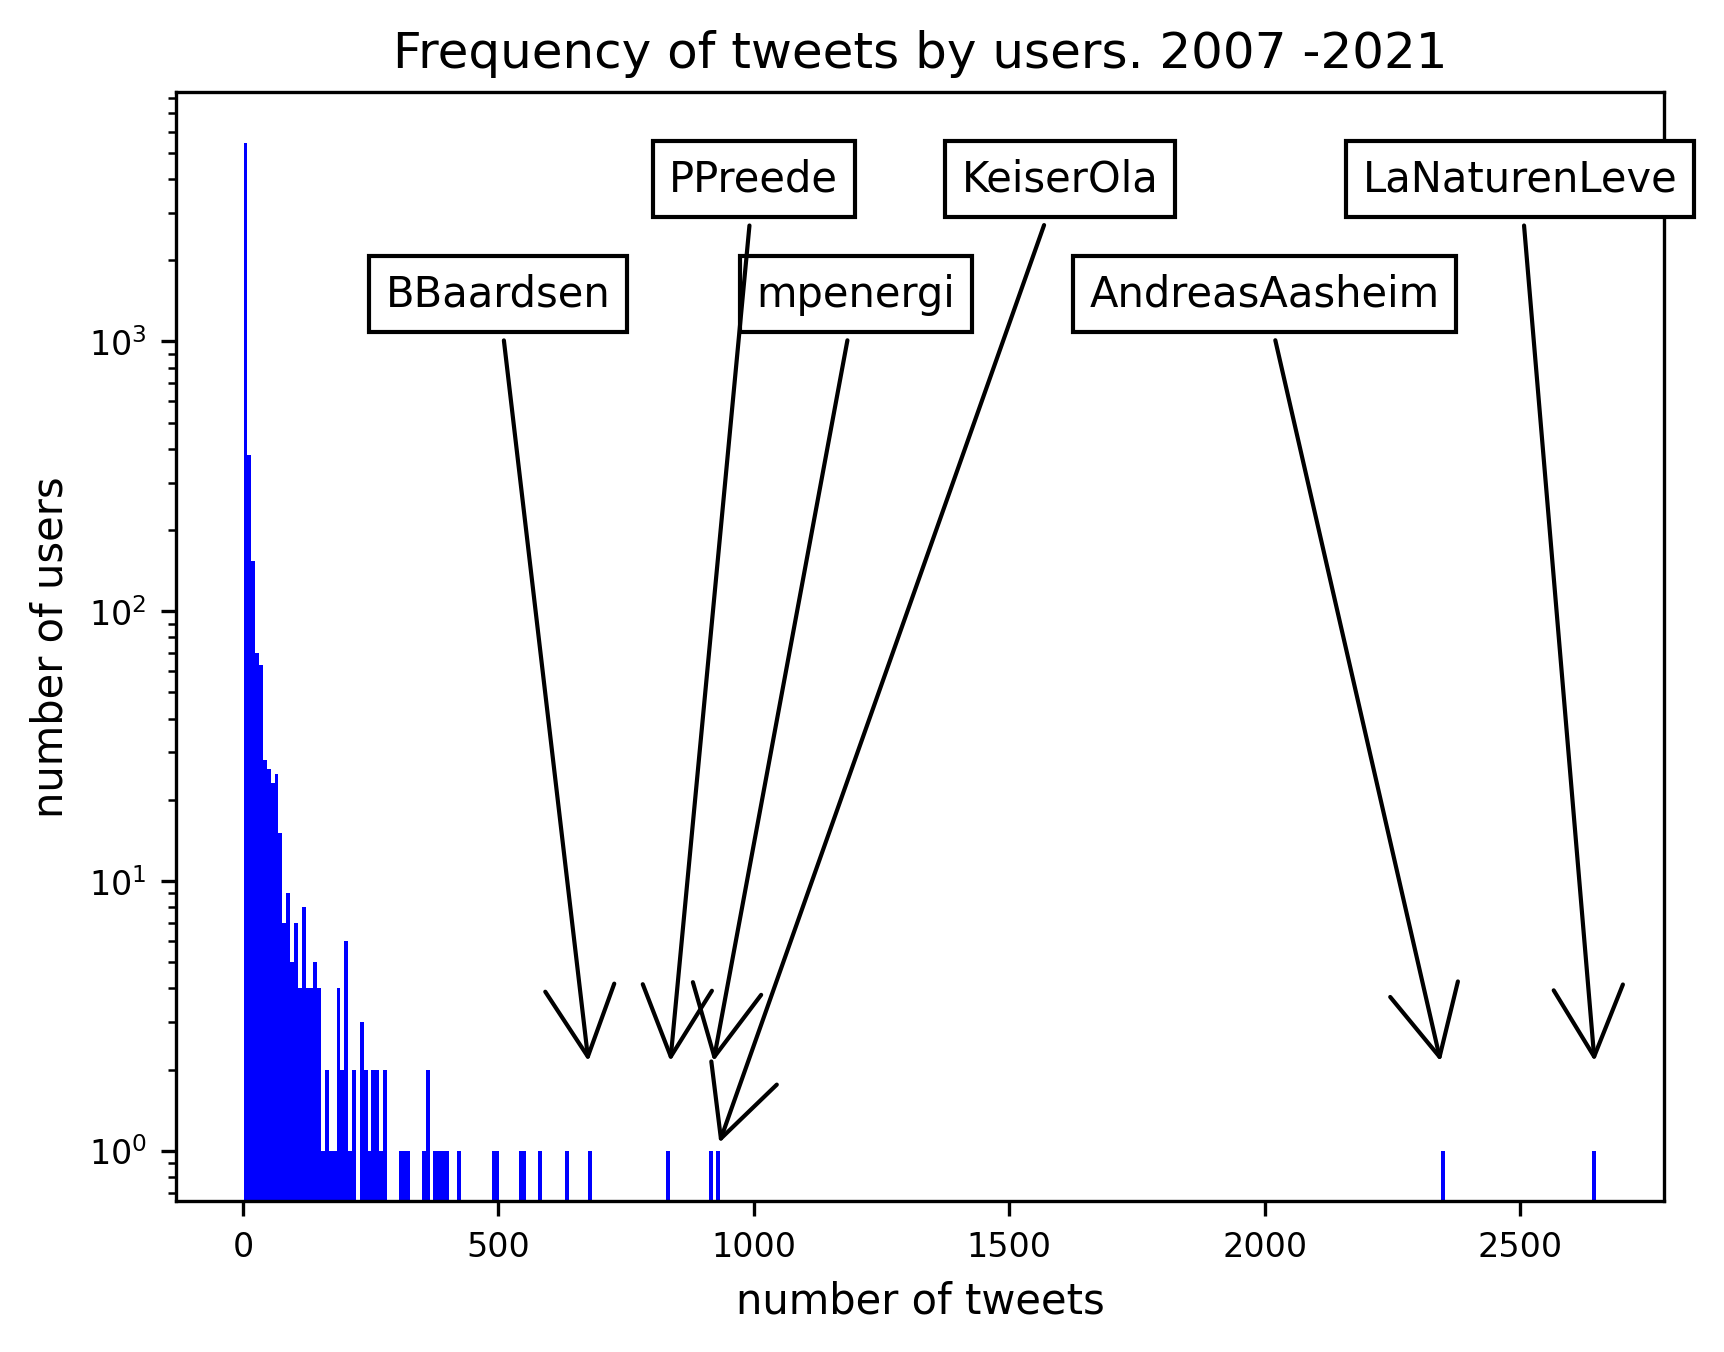
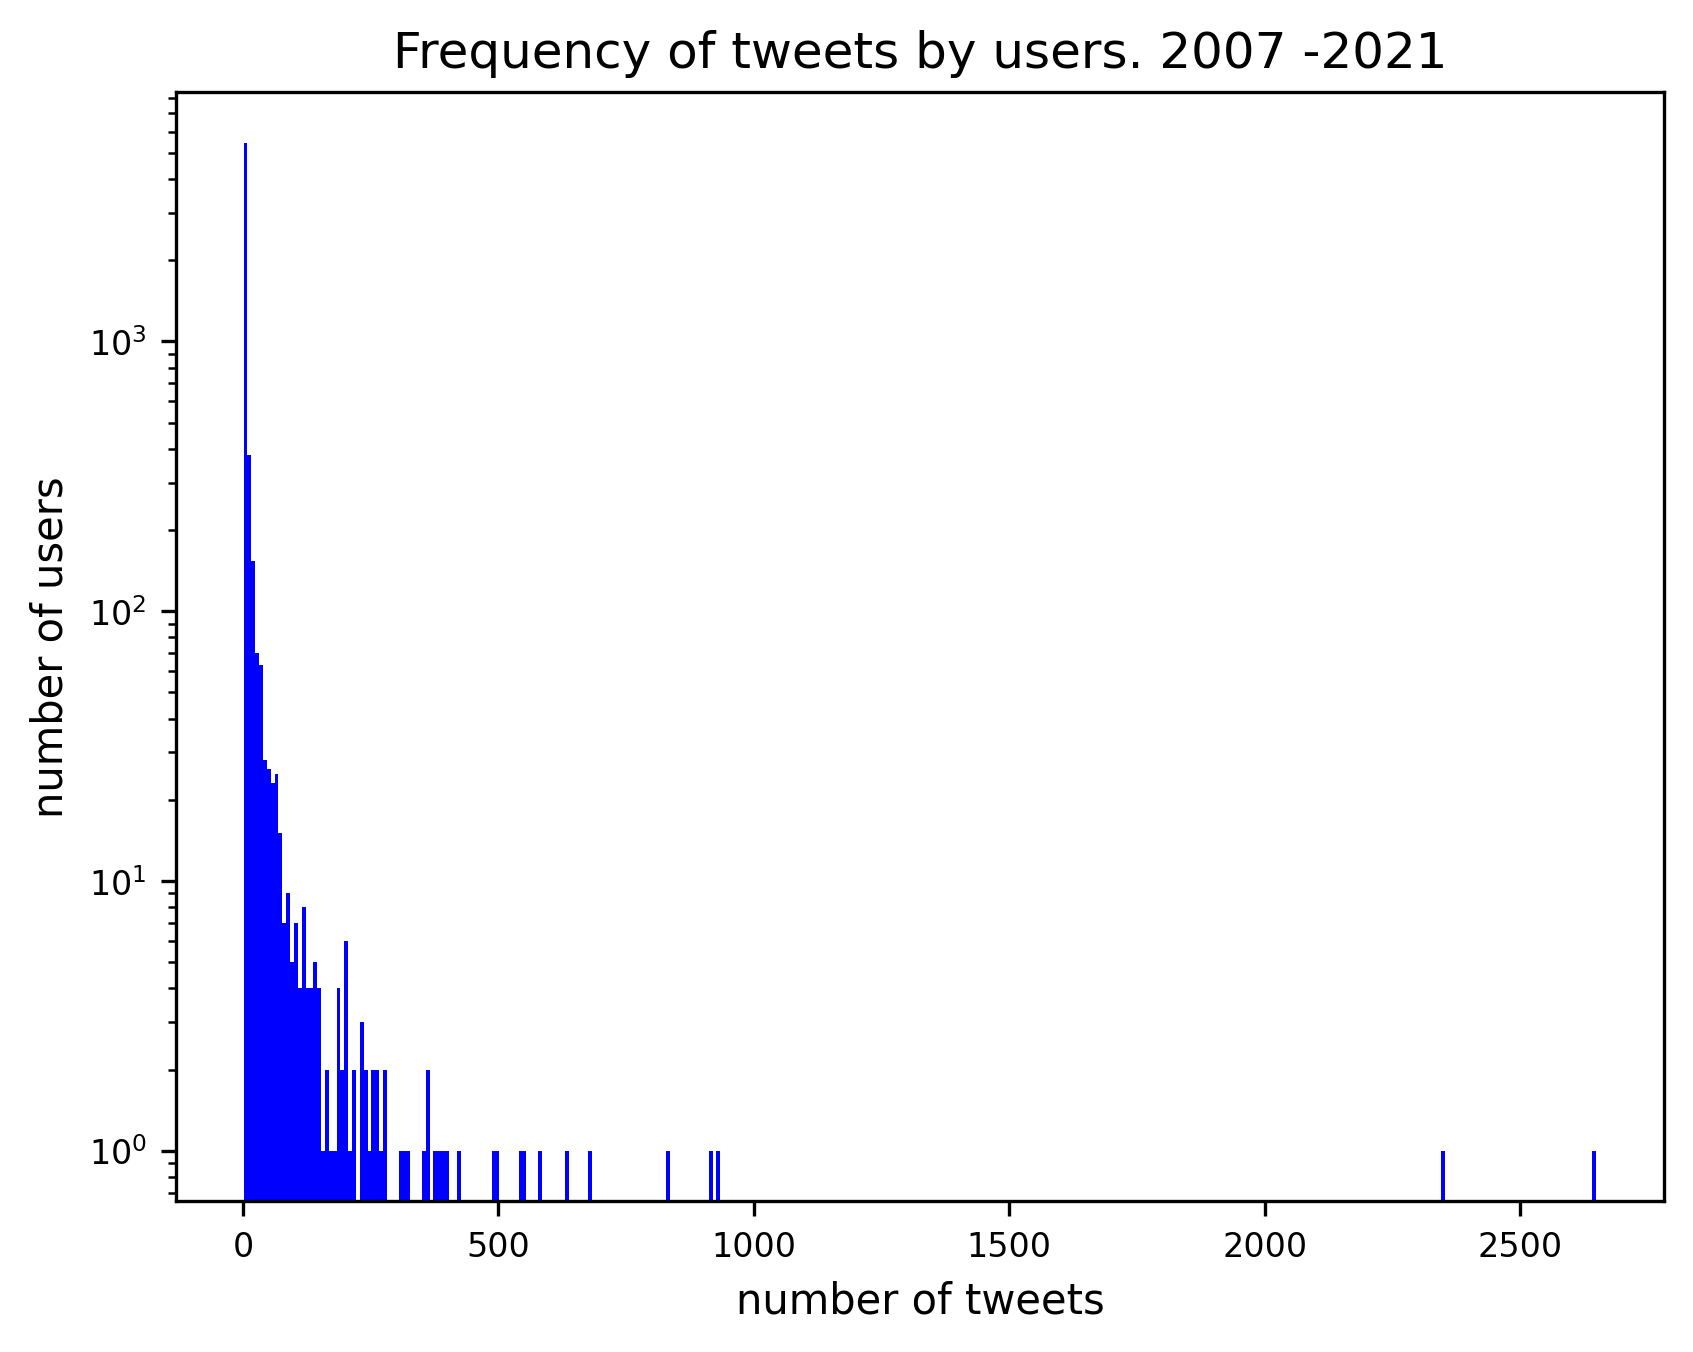
removed arrows and boxes for a more clean plot

diff --git a/data/anon_identifier.py b/data/anon_identifier.py
@@ -65,7 +65,7 @@ def anonymizer():
     p1, t1 = (list(sorted_tweet_occurances)[-1], tweet_occurances[list(sorted_tweet_occurances)[-1]])
     #making a marker for the highest tweets user
     xy1 = (t1, 2)
-    ax.plot(xy1[0], xy1[1])
+    #ax.plot(xy1[0], xy1[1])
     
     offsetbox1 = TextArea(p1)
     ab1 = AnnotationBbox(offsetbox1, xy1,
@@ -77,7 +77,7 @@ def anonymizer():
     p2, t2 = (list(sorted_tweet_occurances)[-2], tweet_occurances[list(sorted_tweet_occurances)[-2]])
     #making a marker for the highest tweets user
     xy2 = (t2, 2)
-    ax.plot(xy2[0], xy2[1])
+    #ax.plot(xy2[0], xy2[1])
     offsetbox2 = TextArea(p2)
     ab2 = AnnotationBbox(offsetbox2, xy2,
                         xybox = (2000, 1500),
@@ -87,7 +87,7 @@ def anonymizer():
     p3, t3 = (list(sorted_tweet_occurances)[-3], tweet_occurances[list(sorted_tweet_occurances)[-3]])
     #making a marker for the highest tweets user
     xy3 = (t3, 1)
-    ax.plot(xy3[0], xy3[1])
+    #ax.plot(xy3[0], xy3[1])
     offsetbox3 = TextArea(p3)
     ab3 = AnnotationBbox(offsetbox3, xy3,
                         xybox = (1600, 4000),
@@ -97,7 +97,7 @@ def anonymizer():
     p4, t4 = (list(sorted_tweet_occurances)[-4], tweet_occurances[list(sorted_tweet_occurances)[-4]])
     #making a marker for the highest tweets user
     xy4 = (t4, 2)
-    ax.plot(xy4[0], xy4[1])
+    #ax.plot(xy4[0], xy4[1])
     offsetbox4 = TextArea(p4)
     ab4 = AnnotationBbox(offsetbox4, xy4,
                         xybox = (1200, 1500),
@@ -107,7 +107,7 @@ def anonymizer():
     p5, t5 = (list(sorted_tweet_occurances)[-5], tweet_occurances[list(sorted_tweet_occurances)[-5]])
     #making a marker for the highest tweets user
     xy5 = (t5, 2)
-    ax.plot(xy5[0], xy5[1])
+    #ax.plot(xy5[0], xy5[1])
     offsetbox5 = TextArea(p5)
     ab5 = AnnotationBbox(offsetbox5, xy5,
                         xybox = (1000, 4000),
@@ -118,7 +118,7 @@ def anonymizer():
     p6, t6 = (list(sorted_tweet_occurances)[-6], tweet_occurances[list(sorted_tweet_occurances)[-6]])
     #making a marker for the highest tweets user
     xy6 = (t6, 2)
-    ax.plot(xy6[0], xy6[1])
+    #ax.plot(xy6[0], xy6[1])
     offsetbox6 = TextArea(p6)
     ab6 = AnnotationBbox(offsetbox6, xy6,
                         xybox = (500, 1500),
@@ -132,12 +132,12 @@ def anonymizer():
     plt.xlabel('number of tweets')
     plt.title('Frequency of tweets by users. 2007 -2021')
 
-    ax.add_artist(ab1)
-    ax.add_artist(ab2)
-    ax.add_artist(ab3)
-    ax.add_artist(ab4)
-    ax.add_artist(ab5)
-    ax.add_artist(ab6)
+    #ax.add_artist(ab1)
+    #ax.add_artist(ab2)
+    #ax.add_artist(ab3)
+    #ax.add_artist(ab4)
+    #ax.add_artist(ab5)
+    #ax.add_artist(ab6)
     #plt.show()
     plt.savefig('third_rendition_data/third_rendition_geolocated_user_tweetfreq.png',dpi = 300, format='png',  bbox_inches = 'tight', pad_inches = 0.1) #0.1 is default when bbox is tight
 
